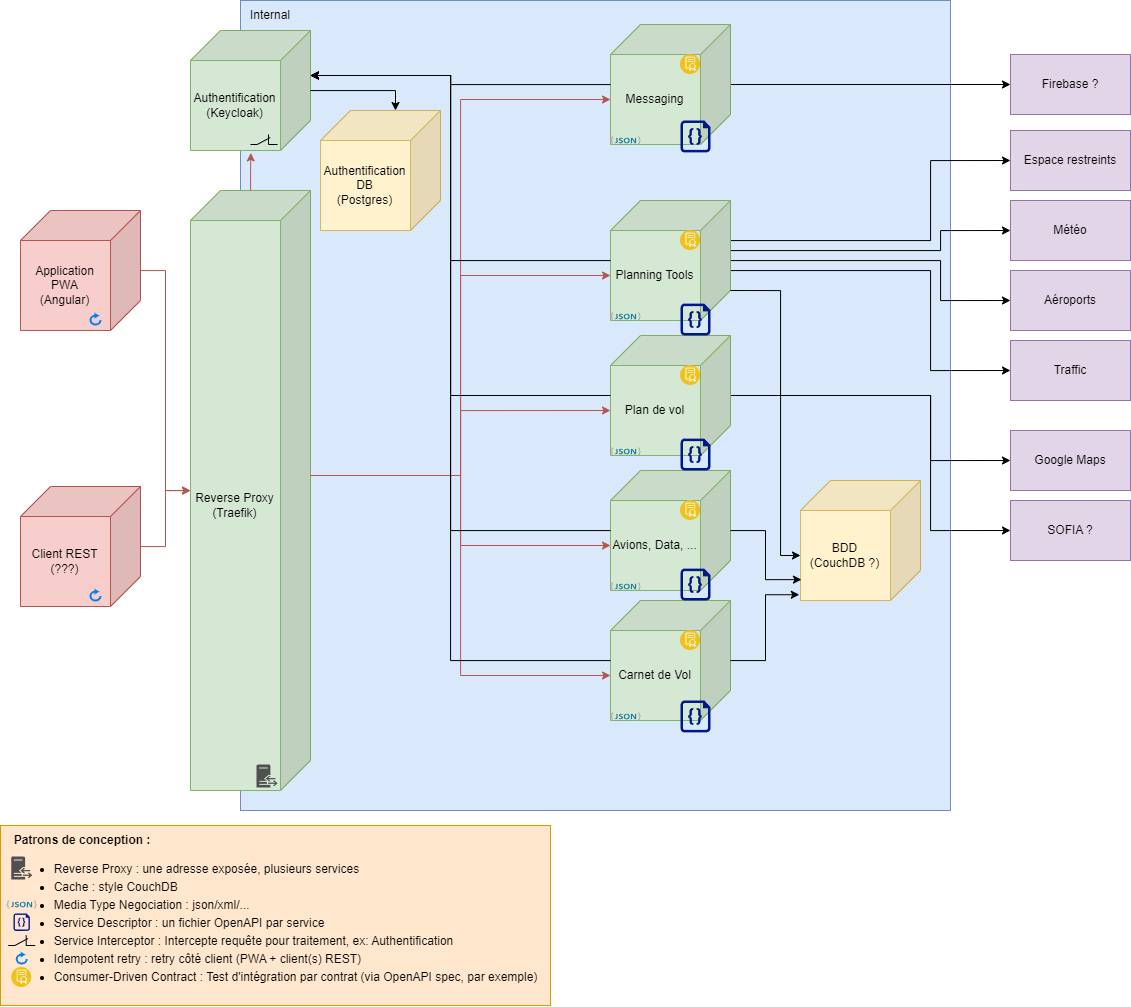
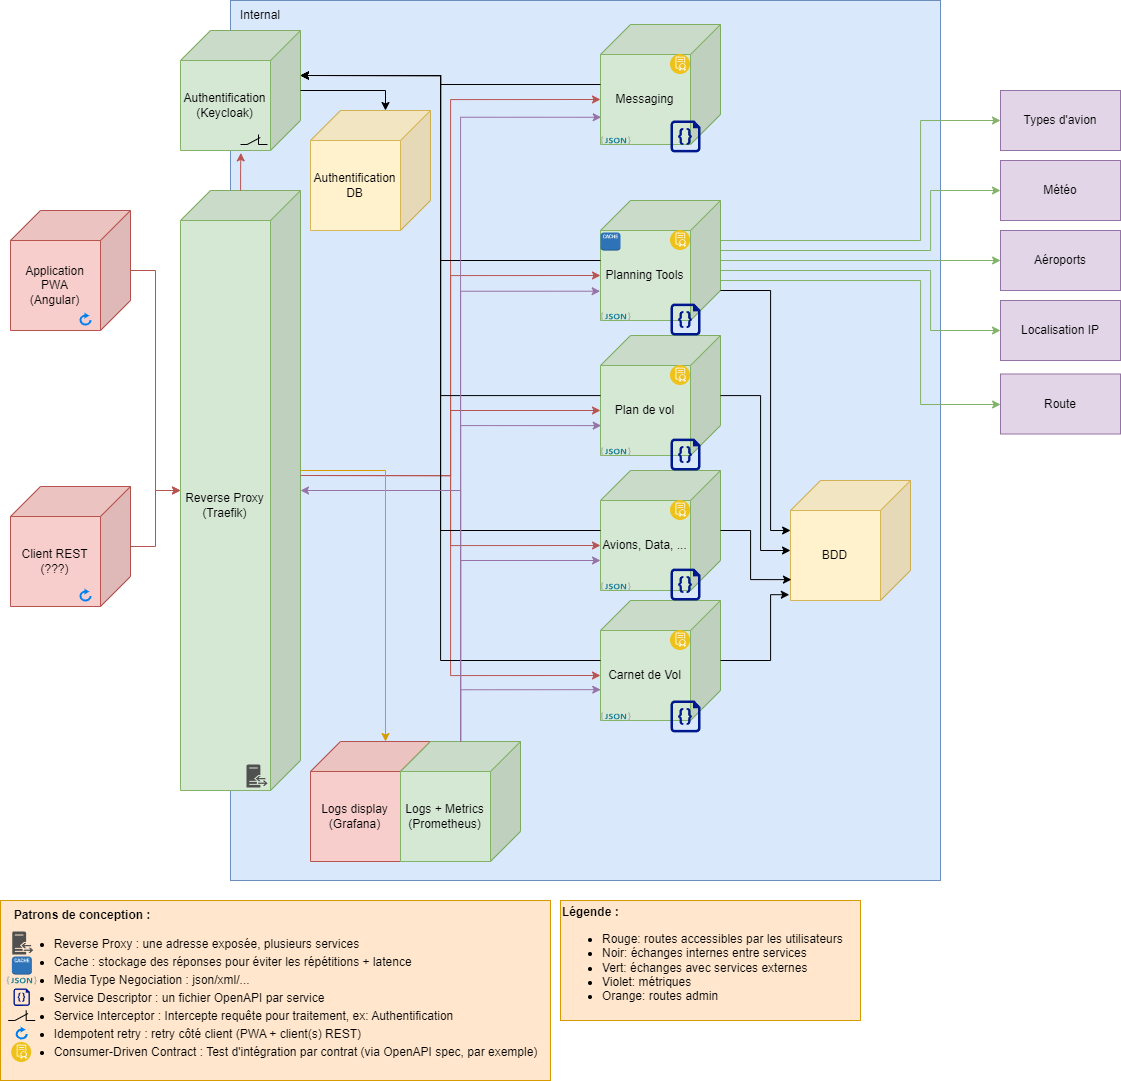
Updated README.md with used APIs and updated architecture schema

diff --git a/README.md b/README.md
@@ -48,3 +48,13 @@ Toutes les valeurs par défaut sont visibles dans les fichiers `.env` après exe
 ## Fonctionnement global du back
 
 [![](./documentation/process.svg)](./documentation/process.puml)
+
+## APIs utilisées
+
+| API                                             | route(s)                                                                                                                  |
+|-------------------------------------------------|---------------------------------------------------------------------------------------------------------------------------|
+| [AviationStack](https://aviationstack.com/)     | [/aircraft_types](https://aviationstack.com/documentation)                                                                |
+| [OpenAIP](https://www.openaip.net/)             | [/airports](https://docs.openaip.net/#/Airports/get_airports)                                                             |
+| [AviationAPI](https://www.aviationapi.com/)     | [/preferred-routes/search](https://docs.aviationapi.com/#tag/preferred-routes%2Fpaths%2F~1preferred-routes~1search%2Fget) |
+| [AviationWeather](https://aviationweather.gov/) | [/api/data/metar](https://aviationweather.gov/data/api/#/Data/dataMetars)                                                 |
+| [IP2Location](https://www.ip2location.io/)      | [/](https://www.ip2location.io/ip2location-documentation)                                                                 |
